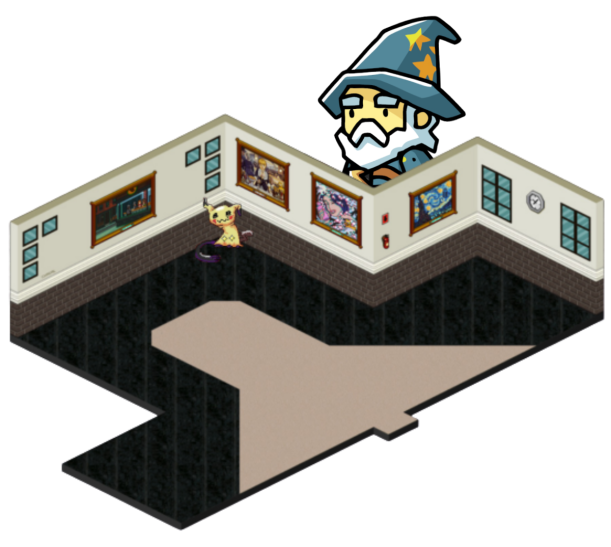
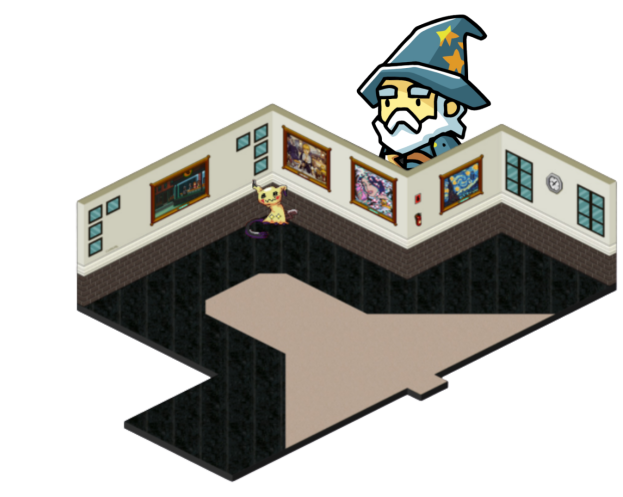
map rotation implemented

diff --git a/src/main/java/org/academiadecodigo/felinux/controller/PlayerKeyboard.java b/src/main/java/org/academiadecodigo/felinux/controller/PlayerKeyboard.java
@@ -174,7 +174,7 @@ public class PlayerKeyboard implements KeyboardHandler {
        // }
 
         if(keyboardEvent.getKey() == KeyboardEvent.KEY_K) {
-            GameCycle.activeMap = MapType.HALL;
+            GameCycle.activeMap = MapType.PURGATORY;
         }
 
 

diff --git a/src/main/java/org/academiadecodigo/felinux/Services/GameCycle.java b/src/main/java/org/academiadecodigo/felinux/Services/GameCycle.java
@@ -46,12 +46,11 @@ public class GameCycle {
      * While player is alive, game is looping
      */
     public void start() {
-
-
+        /*
         menu.startScreen();
         menu.showInstructions();
 
-
+*/
 
         //Missing menu and Instructions
 
